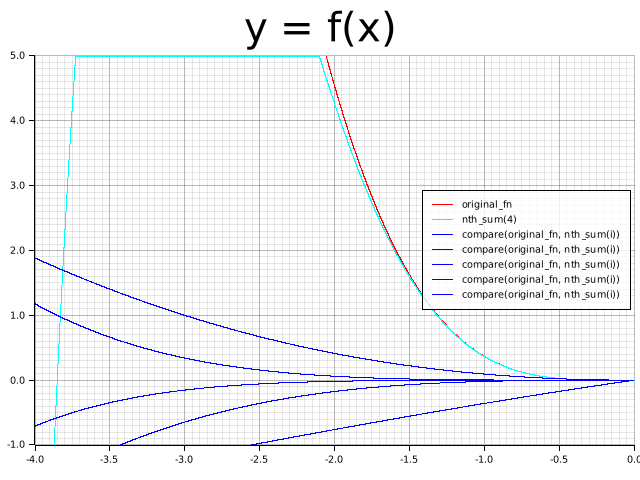
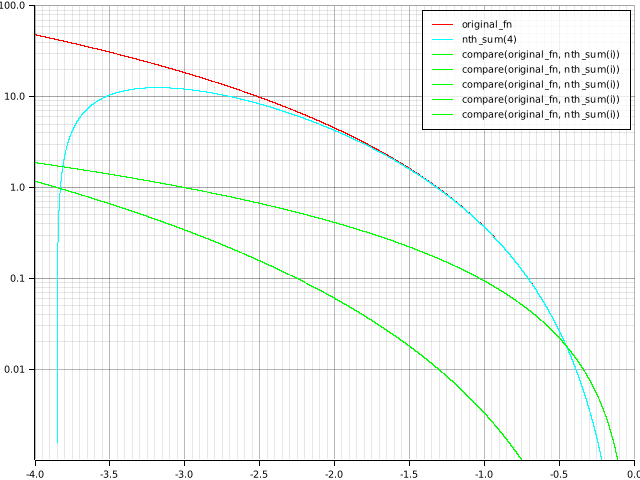
Added log scaling, moved labels to the top right

Changed region(s): [[0.0, 0.0, 1.0, 1.0]]

diff --git a/src/main.rs b/src/main.rs
@@ -12,12 +12,21 @@ use color_eyre::{eyre::anyhow, Result};
 use plotters::prelude::*;
 use plotters::style::colors;
 
-const Y_MAX: f64 = 5.0;
-const Y_MIN: f64 = -1.0;
+const Y_MAX: f64 = 100.0;
+const Y_MIN: f64 = 0.001;
 const X_MAX: f64 = 0.0;
 const X_MIN: f64 = -4.0;
 const NUM_POINTS_ON_DISPLAY: i32 = 15000;
 
+/// Draw any function that takes x (f64) and returns f64.
+/// Like this:
+/// ```rust
+/// fn do_sth(x: f64) -> f64 {
+///     4.0
+/// }
+///
+/// draw_function!(chart (color::Black): function)
+/// ```
 macro_rules! draw_function {
     ($chart:ident ($color:expr): $fun:expr) => {
         #[allow(clippy::redundant_closure)]
@@ -56,43 +65,30 @@ fn main() -> Result<()> {
     root.fill(&WHITE)?;
 
     let mut chart = ChartBuilder::on(&root)
-        .caption("y = f(x)", ("sans-serif", 50).into_font())
         .margin(5)
-        .x_label_area_size(30)
+        .x_label_area_size(15)
         .y_label_area_size(30)
-        .build_cartesian_2d(X_MIN..X_MAX, Y_MIN..Y_MAX)?;
+        .build_cartesian_2d(X_MIN..X_MAX, (Y_MIN..Y_MAX).log_scale())?;
 
     chart.configure_mesh().draw()?;
 
-    lab_main(&mut chart)?;
+    {
+        draw_function!(chart (colors::RED): original_fn);
+        draw_function!(chart (colors::CYAN): nth_sum(4));
+
+        for i in 1..=5 {
+            draw_function!(chart (colors::GREEN): compare(original_fn, nth_sum(i)));
+        }
+    }
 
     chart
         .configure_series_labels()
+        .position(SeriesLabelPosition::UpperRight)
         .background_style(WHITE.mix(0.8))
         .border_style(BLACK)
         .draw()?;
 
     root.present()?;
-
-    Ok(())
-}
-
-// fn given_f(x: f64) -> f64 {
-//     10.45f64.mul_add(-x, 1.6f64.mul_add(x.powi(3), -1.7 * x.powi(2)))
-// }
-
-fn lab_main(
-    chart: &mut ChartContext<
-        '_,
-        BitMapBackend<'_>,
-        Cartesian2d<plotters::coord::types::RangedCoordf64, plotters::coord::types::RangedCoordf64>,
-    >,
-) -> Result<()> {
-    draw_function!(chart (colors::RED): original_fn);
-    draw_function!(chart (colors::CYAN): nth_sum(4));
-    for i in 1..=5 {
-        draw_function!(chart (colors::BLUE): compare(original_fn, nth_sum(i)));
-    }
 
     Ok(())
 }
@@ -105,7 +101,7 @@ fn compare(
         let f1_val = f1(x);
         let f2_val = f2(x);
         let val = f1_val - f2_val;
-        let val = val  / f1_val;
+        let val = val / f1_val;
         val
     }
 }
